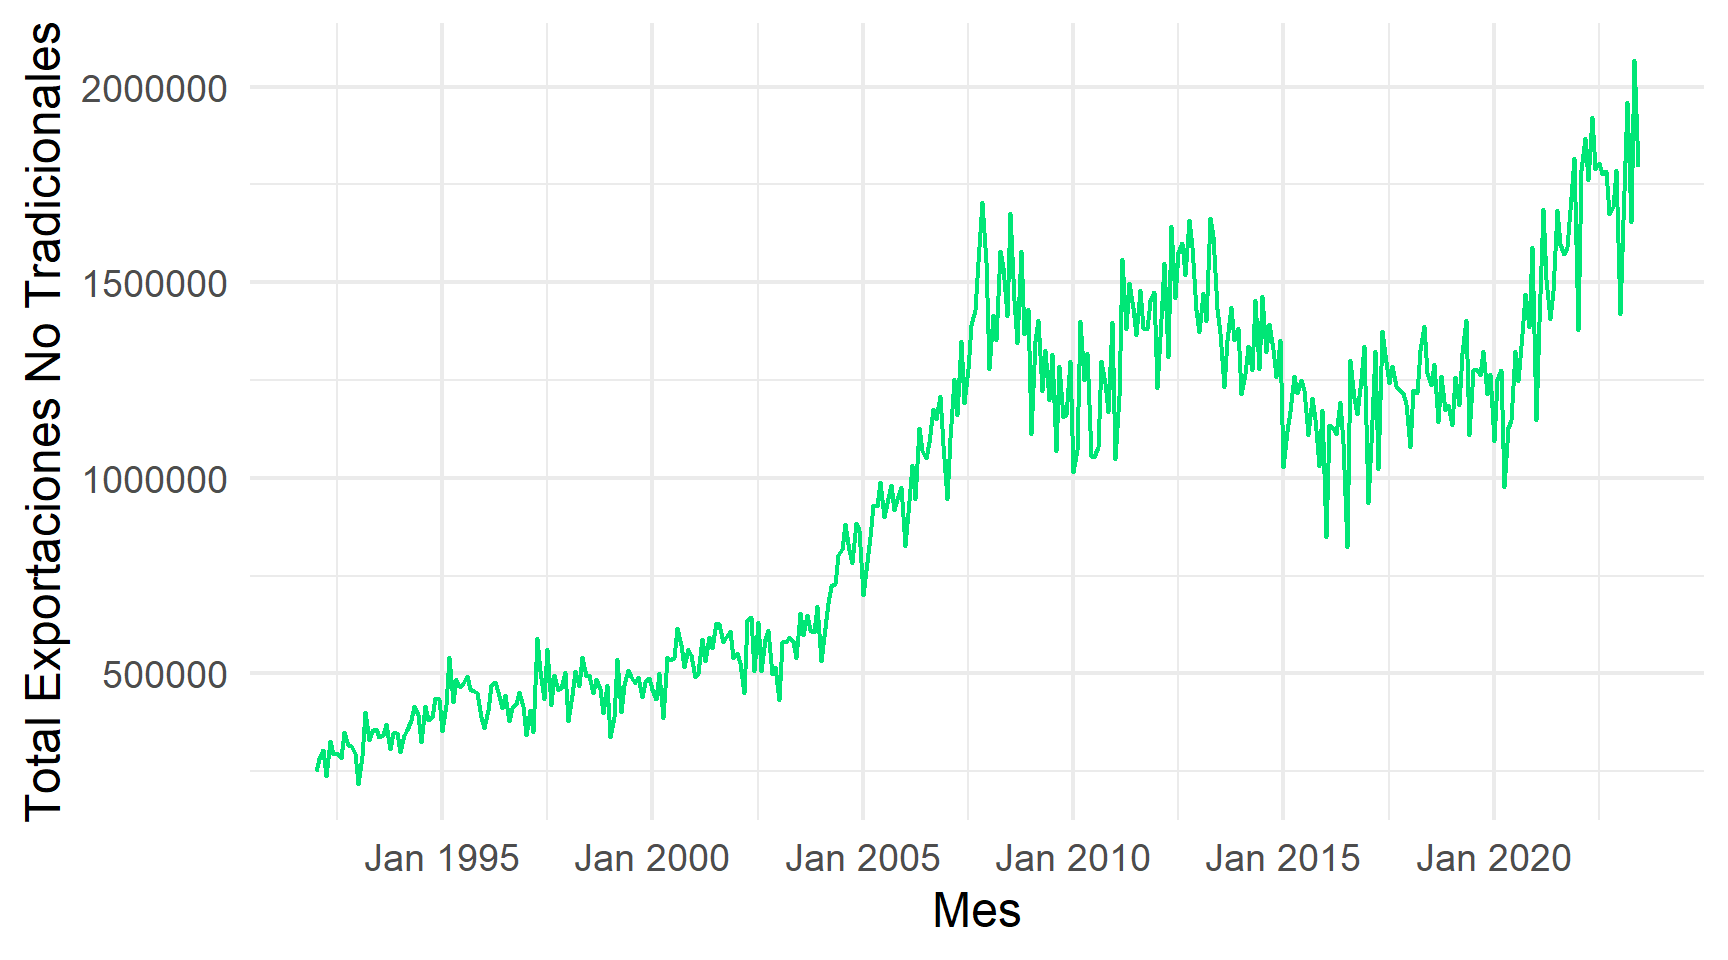
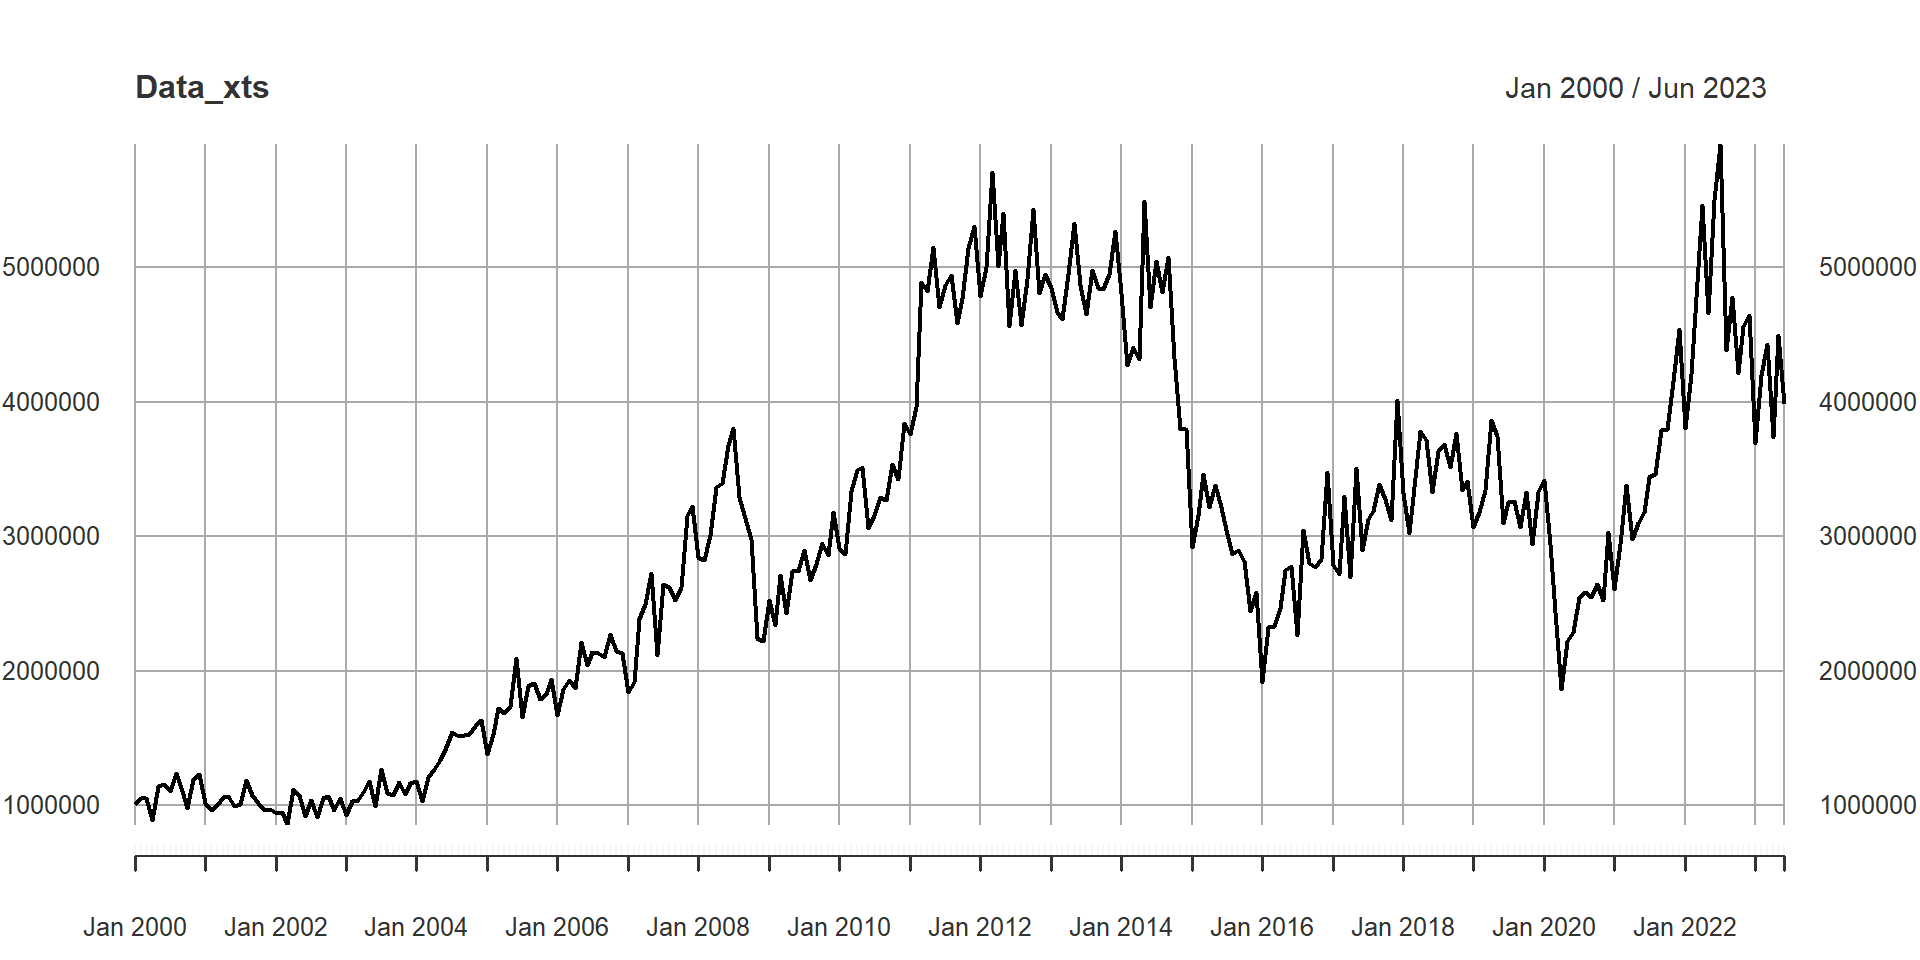
propuesta Jose

diff --git a/docs/propuestas.html b/docs/propuestas.html
@@ -235,18 +235,75 @@ pre > code.sourceCode > span > a:first-child::before { text-decoration: underlin
 <p><img src="propuestas_files/figure-html/unnamed-chunk-13-1.png" class="img-fluid" width="864"></p>
 </div>
 </div>
+<p>Propuesta para las exportaciones con otra visualización</p>
 <div class="cell">
-<div class="sourceCode cell-code" id="cb5"><pre class="sourceCode numberSource r number-lines code-with-copy"><code class="sourceCode r"><span id="cb5-1"><a href="#cb5-1"></a><span class="fu">ggplot</span>(Exportaciones) <span class="sc">+</span> <span class="fu">geom_line</span>(<span class="fu">aes</span>(<span class="at">x =</span> Mes, <span class="at">y =</span> Tradicionales), <span class="at">color =</span> <span class="st">"#00B0FF"</span>, <span class="at">lwd =</span> <span class="fl">0.8</span>) <span class="sc">+</span> </span>
-<span id="cb5-2"><a href="#cb5-2"></a>  <span class="fu">theme_minimal</span>(<span class="dv">18</span>) <span class="sc">+</span> <span class="fu">ylab</span>(<span class="st">"Total Exportaciones Tradicionales"</span>)</span></code><button title="Copy to Clipboard" class="code-copy-button"><i class="bi"></i></button></pre></div>
-<div class="cell-output-display">
-<p><img src="propuestas_files/figure-html/unnamed-chunk-14-1.png" class="img-fluid" width="864"></p>
+<div class="sourceCode cell-code" id="cb5"><pre class="sourceCode numberSource r number-lines code-with-copy"><code class="sourceCode r"><span id="cb5-1"><a href="#cb5-1"></a><span class="co"># mirar fromato de exportaciones</span></span>
+<span id="cb5-2"><a href="#cb5-2"></a><span class="fu">str</span>(Exportaciones)</span></code><button title="Copy to Clipboard" class="code-copy-button"><i class="bi"></i></button></pre></div>
+<div class="cell-output cell-output-stdout">
+<pre><code>tibble [378 × 4] (S3: tbl_df/tbl/data.frame)
+ $ Mes            : 'yearmon' num [1:378] Jan 1992 Feb 1992 Mar 1992 Apr 1992 ...
+ $ Total          : num [1:378] 531771 573004 552307 531825 628717 ...
+ $ Tradicionales  : num [1:378] 281755 290901 247223 293150 302261 ...
+ $ Notradicionales: num [1:378] 250016 282103 305084 238675 326457 ...</code></pre>
+</div>
+<div class="sourceCode cell-code" id="cb7"><pre class="sourceCode numberSource r number-lines code-with-copy"><code class="sourceCode r"><span id="cb7-1"><a href="#cb7-1"></a><span class="co"># cambiar la ventana de datos</span></span>
+<span id="cb7-2"><a href="#cb7-2"></a>Exportaciones <span class="ot">&lt;-</span> Exportaciones[<span class="dv">97</span><span class="sc">:</span><span class="dv">378</span>,]</span>
+<span id="cb7-3"><a href="#cb7-3"></a>Data_xts <span class="ot">&lt;-</span> <span class="fu">xts</span>(Exportaciones<span class="sc">$</span>Total, <span class="at">order.by =</span> Exportaciones<span class="sc">$</span>Mes)</span>
+<span id="cb7-4"><a href="#cb7-4"></a><span class="co">#</span></span>
+<span id="cb7-5"><a href="#cb7-5"></a></span>
+<span id="cb7-6"><a href="#cb7-6"></a><span class="fu">head</span>(Data_xts)</span></code><button title="Copy to Clipboard" class="code-copy-button"><i class="bi"></i></button></pre></div>
+<div class="cell-output cell-output-stdout">
+<pre><code>            [,1]
+Jan 2000 1011676
+Feb 2000 1054098
+Mar 2000 1053546
+Apr 2000  886359
+May 2000 1146258
+Jun 2000 1153956</code></pre>
+</div>
+<div class="sourceCode cell-code" id="cb9"><pre class="sourceCode numberSource r number-lines code-with-copy"><code class="sourceCode r"><span id="cb9-1"><a href="#cb9-1"></a><span class="fu">ts_info</span>(Data_xts)</span></code><button title="Copy to Clipboard" class="code-copy-button"><i class="bi"></i></button></pre></div>
+<div class="cell-output cell-output-stdout">
+<pre><code> The Data_xts series is a xts object with 1 variable and 282 observations
+ Frequency: monthly 
+ Start time: Jan 2000 
+ End time: Jun 2023 </code></pre>
+</div>
+<div class="sourceCode cell-code" id="cb11"><pre class="sourceCode numberSource r number-lines code-with-copy"><code class="sourceCode r"><span id="cb11-1"><a href="#cb11-1"></a><span class="fu">class</span>(Data_xts)</span></code><button title="Copy to Clipboard" class="code-copy-button"><i class="bi"></i></button></pre></div>
+<div class="cell-output cell-output-stdout">
+<pre><code>[1] "xts" "zoo"</code></pre>
+</div>
+<div class="sourceCode cell-code" id="cb13"><pre class="sourceCode numberSource r number-lines code-with-copy"><code class="sourceCode r"><span id="cb13-1"><a href="#cb13-1"></a><span class="fu">frequency</span>(Data_xts)</span></code><button title="Copy to Clipboard" class="code-copy-button"><i class="bi"></i></button></pre></div>
+<div class="cell-output cell-output-stdout">
+<pre><code>[1] 12</code></pre>
+</div>
+<div class="sourceCode cell-code" id="cb15"><pre class="sourceCode numberSource r number-lines code-with-copy"><code class="sourceCode r"><span id="cb15-1"><a href="#cb15-1"></a><span class="co">#</span></span>
+<span id="cb15-2"><a href="#cb15-2"></a><span class="fu">periodicity</span>(Data_xts)</span></code><button title="Copy to Clipboard" class="code-copy-button"><i class="bi"></i></button></pre></div>
+<div class="cell-output cell-output-stdout">
+<pre><code>Monthly periodicity from Jan 2000 to Jun 2023 </code></pre>
+</div>
+<div class="sourceCode cell-code" id="cb17"><pre class="sourceCode numberSource r number-lines code-with-copy"><code class="sourceCode r"><span id="cb17-1"><a href="#cb17-1"></a><span class="fu">tclass</span>(Data_xts)</span></code><button title="Copy to Clipboard" class="code-copy-button"><i class="bi"></i></button></pre></div>
+<div class="cell-output cell-output-stdout">
+<pre><code>[1] "yearmon"</code></pre>
 </div>
 </div>
 <div class="cell">
-<div class="sourceCode cell-code" id="cb6"><pre class="sourceCode numberSource r number-lines code-with-copy"><code class="sourceCode r"><span id="cb6-1"><a href="#cb6-1"></a><span class="fu">ggplot</span>(Exportaciones) <span class="sc">+</span> <span class="fu">geom_line</span>(<span class="fu">aes</span>(<span class="at">x =</span> Mes, <span class="at">y =</span> Notradicionales), <span class="at">color =</span> <span class="st">"#00E676"</span>, <span class="at">lwd =</span> <span class="fl">0.8</span>) <span class="sc">+</span> </span>
-<span id="cb6-2"><a href="#cb6-2"></a>  <span class="fu">theme_minimal</span>(<span class="dv">18</span>) <span class="sc">+</span> <span class="fu">ylab</span>(<span class="st">"Total Exportaciones No Tradicionales"</span>) </span></code><button title="Copy to Clipboard" class="code-copy-button"><i class="bi"></i></button></pre></div>
+<div class="sourceCode cell-code" id="cb19"><pre class="sourceCode numberSource r number-lines code-with-copy"><code class="sourceCode r"><span id="cb19-1"><a href="#cb19-1"></a><span class="fu">plot</span>(Data_xts)</span></code><button title="Copy to Clipboard" class="code-copy-button"><i class="bi"></i></button></pre></div>
 <div class="cell-output-display">
-<p><img src="propuestas_files/figure-html/unnamed-chunk-15-1.png" class="img-fluid" width="864"></p>
+<p><img src="propuestas_files/figure-html/unnamed-chunk-15-1.png" class="img-fluid" width="960"></p>
+</div>
+</div>
+<div class="cell">
+<div class="sourceCode cell-code" id="cb20"><pre class="sourceCode numberSource r number-lines code-with-copy"><code class="sourceCode r"><span id="cb20-1"><a href="#cb20-1"></a><span class="fu">ggplot</span>(Exportaciones) <span class="sc">+</span> <span class="fu">geom_line</span>(<span class="fu">aes</span>(<span class="at">x =</span> Mes, <span class="at">y =</span> Tradicionales), <span class="at">color =</span> <span class="st">"#00B0FF"</span>, <span class="at">lwd =</span> <span class="fl">0.8</span>) <span class="sc">+</span> </span>
+<span id="cb20-2"><a href="#cb20-2"></a>  <span class="fu">theme_minimal</span>(<span class="dv">18</span>) <span class="sc">+</span> <span class="fu">ylab</span>(<span class="st">"Total Exportaciones Tradicionales"</span>)</span></code><button title="Copy to Clipboard" class="code-copy-button"><i class="bi"></i></button></pre></div>
+<div class="cell-output-display">
+<p><img src="propuestas_files/figure-html/unnamed-chunk-16-1.png" class="img-fluid" width="864"></p>
+</div>
+</div>
+<div class="cell">
+<div class="sourceCode cell-code" id="cb21"><pre class="sourceCode numberSource r number-lines code-with-copy"><code class="sourceCode r"><span id="cb21-1"><a href="#cb21-1"></a><span class="fu">ggplot</span>(Exportaciones) <span class="sc">+</span> <span class="fu">geom_line</span>(<span class="fu">aes</span>(<span class="at">x =</span> Mes, <span class="at">y =</span> Notradicionales), <span class="at">color =</span> <span class="st">"#00E676"</span>, <span class="at">lwd =</span> <span class="fl">0.8</span>) <span class="sc">+</span> </span>
+<span id="cb21-2"><a href="#cb21-2"></a>  <span class="fu">theme_minimal</span>(<span class="dv">18</span>) <span class="sc">+</span> <span class="fu">ylab</span>(<span class="st">"Total Exportaciones No Tradicionales"</span>) </span></code><button title="Copy to Clipboard" class="code-copy-button"><i class="bi"></i></button></pre></div>
+<div class="cell-output-display">
+<p><img src="propuestas_files/figure-html/unnamed-chunk-17-1.png" class="img-fluid" width="864"></p>
 </div>
 </div>
 </section>
@@ -259,9 +316,9 @@ pre > code.sourceCode > span > a:first-child::before { text-decoration: underlin
 <section id="trabajo-con-los-datos" class="level4">
 <h4 class="anchored" data-anchor-id="trabajo-con-los-datos">trabajo con los datos</h4>
 <div class="cell">
-<div class="sourceCode cell-code" id="cb7"><pre class="sourceCode numberSource r number-lines code-with-copy"><code class="sourceCode r"><span id="cb7-1"><a href="#cb7-1"></a><span class="fu">plot</span>(Data_xts)</span></code><button title="Copy to Clipboard" class="code-copy-button"><i class="bi"></i></button></pre></div>
+<div class="sourceCode cell-code" id="cb22"><pre class="sourceCode numberSource r number-lines code-with-copy"><code class="sourceCode r"><span id="cb22-1"><a href="#cb22-1"></a><span class="fu">plot</span>(Data_xts)</span></code><button title="Copy to Clipboard" class="code-copy-button"><i class="bi"></i></button></pre></div>
 <div class="cell-output-display">
-<p><img src="propuestas_files/figure-html/unnamed-chunk-18-1.png" class="img-fluid" width="672"></p>
+<p><img src="propuestas_files/figure-html/unnamed-chunk-20-1.png" class="img-fluid" width="672"></p>
 </div>
 </div>
 </section>
@@ -272,9 +329,9 @@ pre > code.sourceCode > span > a:first-child::before { text-decoration: underlin
 <section id="trabajo-con-los-datos-1" class="level4">
 <h4 class="anchored" data-anchor-id="trabajo-con-los-datos-1">trabajo con los datos</h4>
 <div class="cell">
-<div class="sourceCode cell-code" id="cb8"><pre class="sourceCode numberSource r number-lines code-with-copy"><code class="sourceCode r"><span id="cb8-1"><a href="#cb8-1"></a><span class="fu">plot</span>(Data_xts)</span></code><button title="Copy to Clipboard" class="code-copy-button"><i class="bi"></i></button></pre></div>
+<div class="sourceCode cell-code" id="cb23"><pre class="sourceCode numberSource r number-lines code-with-copy"><code class="sourceCode r"><span id="cb23-1"><a href="#cb23-1"></a><span class="fu">plot</span>(Data_xts)</span></code><button title="Copy to Clipboard" class="code-copy-button"><i class="bi"></i></button></pre></div>
 <div class="cell-output-display">
-<p><img src="propuestas_files/figure-html/unnamed-chunk-21-1.png" class="img-fluid" width="672"></p>
+<p><img src="propuestas_files/figure-html/unnamed-chunk-23-1.png" class="img-fluid" width="672"></p>
 </div>
 </div>
 

diff --git a/docs/index.html b/docs/index.html
@@ -134,7 +134,7 @@ ul.task-list li input[type="checkbox"] {
     <div>
     <div class="quarto-title-meta-heading">Fecha de Publicación</div>
     <div class="quarto-title-meta-contents">
-      <p class="date">24 de agosto de 2023</p>
+      <p class="date">28 de agosto de 2023</p>
     </div>
   </div>
   
